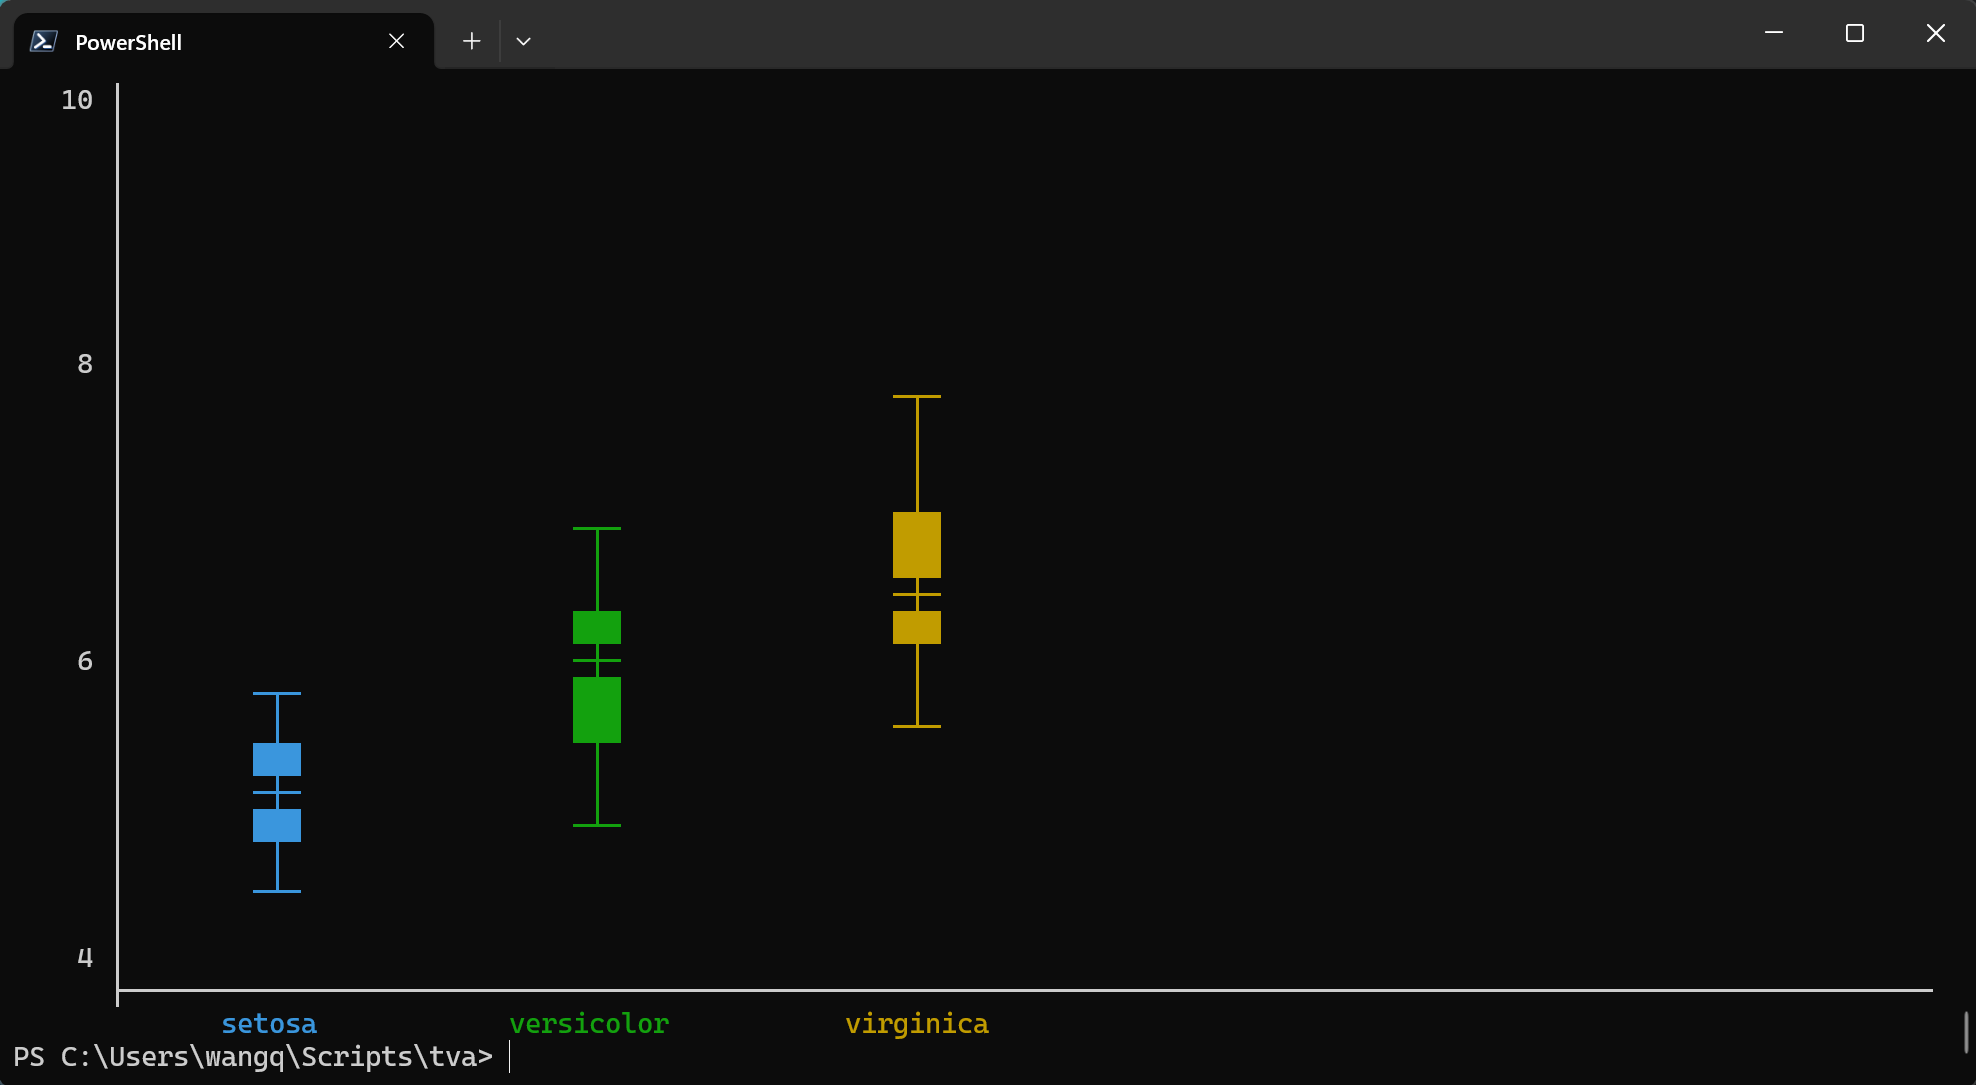
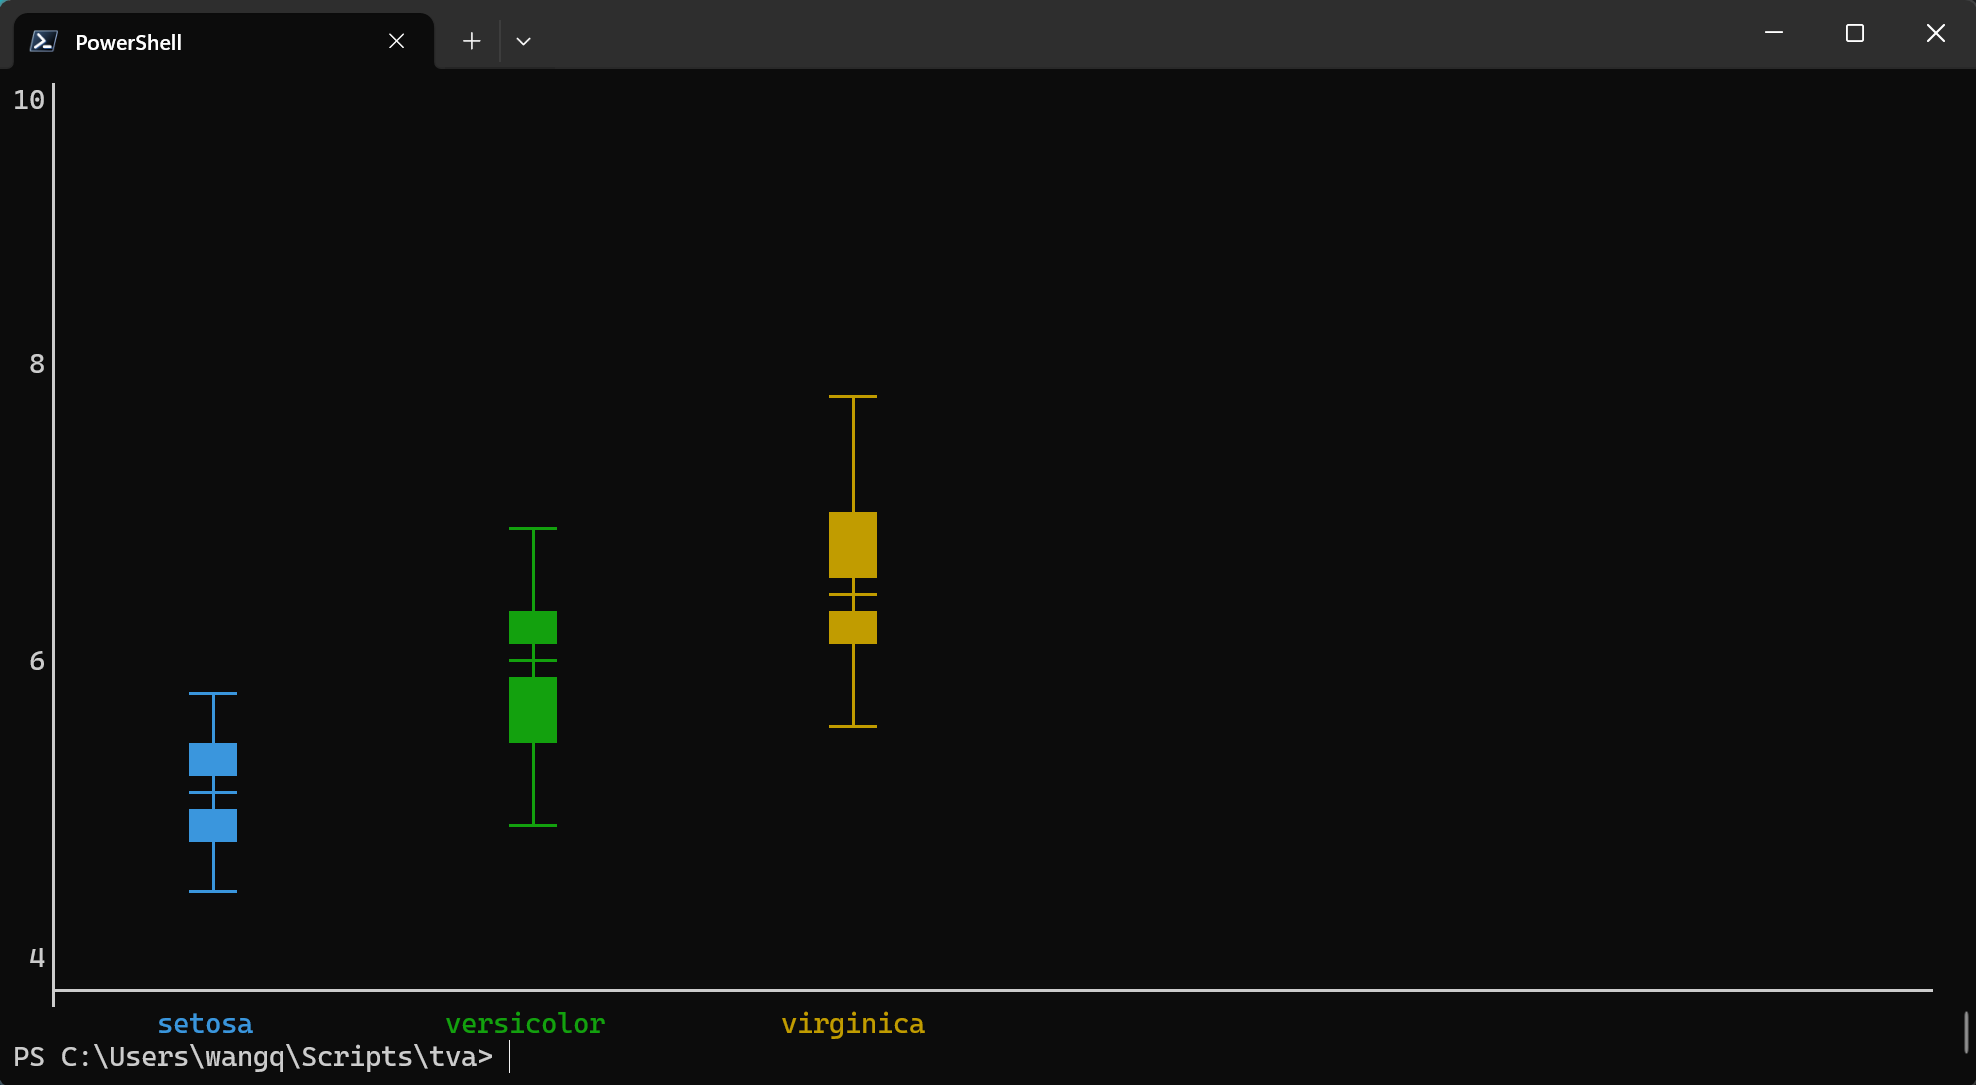
feat(plot): improve chart layout and update documentation

diff --git a/src/libs/plot/chart.rs b/src/libs/plot/chart.rs
@@ -368,6 +368,10 @@ pub fn render_chart_box<T: BoxStatsRender>(
         [y_min, y_max]
     };
 
+    // Calculate Y axis width based on longest label (like plot point)
+    let max_label_len = y_labels_vec.iter().map(|l| l.len()).max().unwrap_or(1);
+    let y_axis_width = (max_label_len as u16).max(1);
+
     // Use TestBackend to render
     let backend = TestBackend::new(config.width, config.height);
     let mut terminal = Terminal::new(backend)?;
@@ -375,7 +379,6 @@ pub fn render_chart_box<T: BoxStatsRender>(
     terminal.draw(|f| {
         // Calculate layout
         let num_boxes = boxes.len();
-        let y_axis_width = 6u16;
         let chart_width = config.width.saturating_sub(y_axis_width);
         let box_width = if num_boxes > 0 {
             (chart_width as usize / num_boxes).max(8)
@@ -517,6 +520,7 @@ pub fn render_chart_box<T: BoxStatsRender>(
         }
 
         // Draw Y axis labels (top to bottom: max to min)
+        // Place labels immediately to the left of the Y axis line, like tva plot point
         for (i, label) in y_labels_vec.iter().enumerate() {
             if y_labels_vec.len() <= 1 {
                 continue;
@@ -525,13 +529,15 @@ pub fn render_chart_box<T: BoxStatsRender>(
             let ratio = 1.0 - (i as f64 / (y_labels_vec.len() - 1) as f64);
             let row = (ratio * (chart_height - 1) as f64) as u16;
             let row = row.min(chart_height - 1);
-            // Right-align the label
-            let label_trimmed = if label.len() > y_axis_width as usize - 1 {
-                &label[..y_axis_width as usize - 1]
+            // Right-align the label, placing it immediately adjacent to Y axis
+            // Label ends at y_axis_width - 1, Y axis line is at y_axis_width
+            let label_trimmed = if label.len() > y_axis_width as usize {
+                &label[..y_axis_width as usize]
             } else {
                 label
             };
-            let x_offset = y_axis_width.saturating_sub(label_trimmed.len() as u16 + 1);
+            // Place label so its right edge is at y_axis_width - 1
+            let x_offset = y_axis_width.saturating_sub(label_trimmed.len() as u16);
             let _ = f.buffer_mut().set_stringn(
                 x_offset,
                 row,

diff --git a/src/cmd_tva/plot/box.rs b/src/cmd_tva/plot/box.rs
@@ -35,13 +35,13 @@ pub fn make_subcommand() -> Command {
         .arg(
             Arg::new("cols")
                 .long("cols")
-                .default_value("1.0")
+                .default_value("80")
                 .help("Chart width (characters or ratio like '0.8')"),
         )
         .arg(
             Arg::new("rows")
                 .long("rows")
-                .default_value("1.0")
+                .default_value("24")
                 .help("Chart height (characters or ratio like '0.6')"),
         )
         .arg(

diff --git a/src/cmd_tva/plot/point.rs b/src/cmd_tva/plot/point.rs
@@ -48,13 +48,13 @@ pub fn make_subcommand() -> Command {
         .arg(
             Arg::new("cols")
                 .long("cols")
-                .default_value("1.0")
+                .default_value("80")
                 .help("Chart width (characters or ratio like '0.8')"),
         )
         .arg(
             Arg::new("rows")
                 .long("rows")
-                .default_value("1.0")
+                .default_value("24")
                 .help("Chart height (characters or ratio like '0.6')"),
         )
         .arg(

diff --git a/docs/plot.md b/docs/plot.md
@@ -39,16 +39,16 @@ The simplest use case is plotting two numeric columns against each other.
 Using the `tests/data/plot/iris.tsv` dataset (Fisher's Iris dataset):
 
 ```bash
-tva plot point tests/data/plot/iris.tsv -x sepal_length -y sepal_width --cols 80 --rows 24
+tva plot point tests/data/plot/iris.tsv -x sepal_length -y sepal_width
 ```
 
 This creates a scatter plot showing the relationship between sepal length and sepal width.
 
 Output (terminal chart):
 ```
-6│sepal_width                                                      ┌───────────┐
- │                                                                 │sepal_width│
- │                                                                 └───────────┘
+6│sepal_width
+ │
+ │
  │
  │
  │
@@ -77,7 +77,7 @@ Output (terminal chart):
 Use the `--color` option to group points by a categorical column. Each unique value gets a different color.
 
 ```bash
-tva plot point tests/data/plot/iris.tsv -x petal_length -y petal_width --color label
+tva plot point tests/data/plot/iris.tsv -x petal_length -y petal_width --color label --cols 1.0 --rows 1.0
 ```
 ![iris scatter plot with color](images/plot_point_iris_color.png)
 
@@ -93,10 +93,16 @@ The output will show three distinct clusters with different markers/colors:
 Use the `-l` or `--line` flag to connect points with lines instead of drawing individual points.
 
 ```bash
-tva plot point tests/data/plot/iris.tsv -x sepal_length -y sepal_width --line
+tva plot point tests/data/plot/iris.tsv -x sepal_length -y sepal_width --line --cols 1.0 --rows 1.0
 ```
 
 ![iris line plot](images/plot_point_iris_line.png)
+
+```bash
+tva plot point tests/data/plot/iris.tsv -x sepal_length -y sepal_width --path --cols 1.0 --rows 1.0
+```
+
+![iris path plot](images/plot_point_iris_path.png)
 
 ### 4. Using Column Indices
 
@@ -111,16 +117,7 @@ This maps:
 *   Column 3 (`petal_length`) to Y-axis
 *   Column 5 (`label`) to color
 
-### 5. Custom Chart Size
-
-Control the chart dimensions with `--cols` and `--rows`:
-
-```bash
-tva plot point tests/data/plot/iris.tsv -x sepal_length -y sepal_width --cols 100 --rows 30
-```
-
-
-### 6. Different Marker Styles
+### 5. Different Marker Styles
 
 Choose from three marker types with `-m` or `--marker`:
 
@@ -146,7 +143,7 @@ tva plot point tests/data/plot/iris.tsv -x sepal_length -y petal_length -m dot -
 When combined with `--color`, a separate regression line is drawn for each group:
 
 ```bash
-tva plot point tests/data/plot/iris.tsv -x sepal_length -y petal_length -m dot  --color label --regression
+tva plot point tests/data/plot/iris.tsv -x sepal_length -y petal_length -m dot  --color label --regression --cols 1.0 --rows 1.0
 ```
 
 ![Regression lines with color grouping](images/plot_point_regression.png)
@@ -221,26 +218,26 @@ This creates a box plot showing the distribution of sepal length values.
 
 Output (terminal chart):
 ```
-   10 │
-      │
-      │
-      │
-      │
-    8 │        ─┬─
-      │         │
-      │         │
-      │         │
-      │         │
-      │        ███
-    6 │        ─┼─
-      │        ███
-      │        ███
-      │         │
-      │         │
-      │        ─┴─
-    4 │
-      ├─────────────────────────────────────────────────────
-          sepal_length
+10│
+  │
+  │
+  │
+  │
+ 8│        ─┬─
+  │         │
+  │         │
+  │         │
+  │         │
+  │        ███
+ 6│        ─┼─
+  │        ███
+  │        ███
+  │         │
+  │         │
+  │        ─┴─
+ 4│
+  ├─────────────────────────────────────────────────────────
+      sepal_length
 ```
 
 #### 2. Grouped Box Plot
@@ -248,7 +245,7 @@ Output (terminal chart):
 Use the `--color` option to create separate box plots for each category:
 
 ```bash
-tva plot box tests/data/plot/iris.tsv -y sepal_length --color label
+tva plot box tests/data/plot/iris.tsv -y sepal_length --color label --cols 1.0 --rows 1.0
 ```
 ![Grouped box plot by species](images/plot_box_grouped.png)
 
@@ -259,7 +256,7 @@ This creates three box plots side by side, one for each iris species (setosa, ve
 Plot multiple numeric columns for comparison:
 
 ```bash
-tva plot box tests/data/plot/iris.tsv -y "sepal_length,sepal_width" --color label
+tva plot box tests/data/plot/iris.tsv -y "sepal_length,sepal_width" --color label --cols 1.0 --rows 1.0
 ```
 ![Multiple columns box plot](images/plot_box_multiple.png)
 
